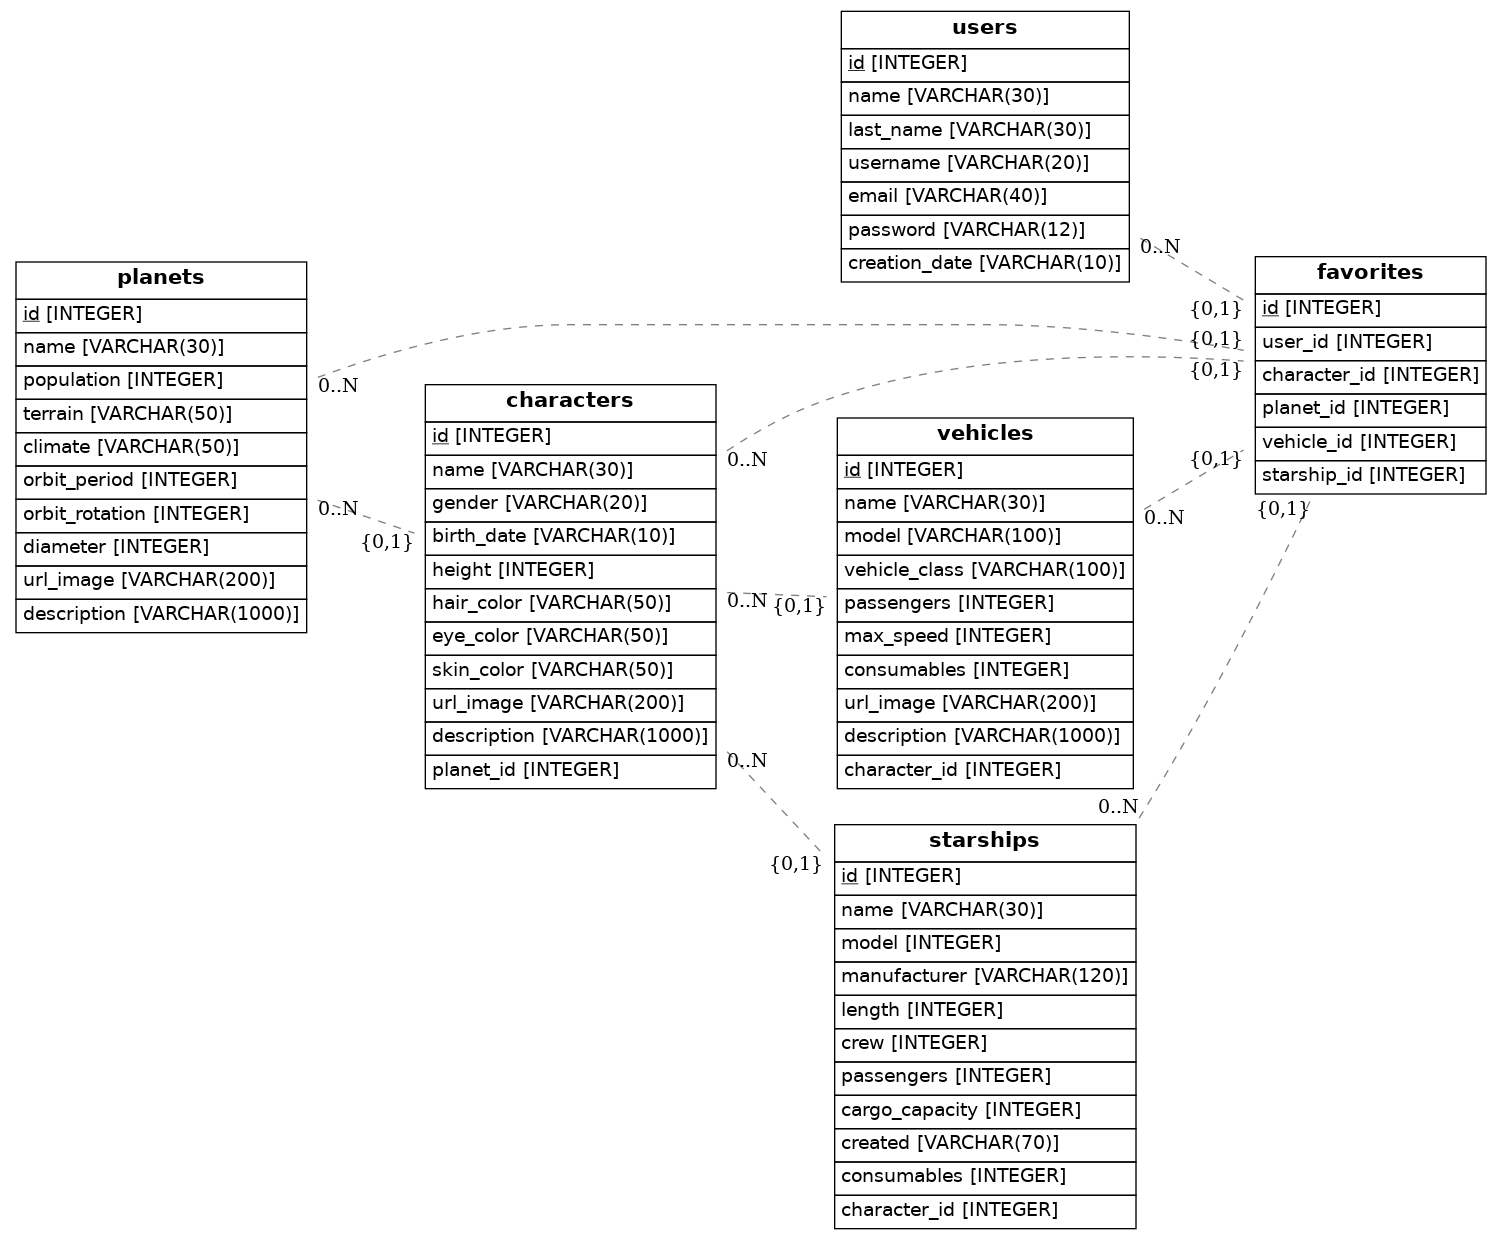
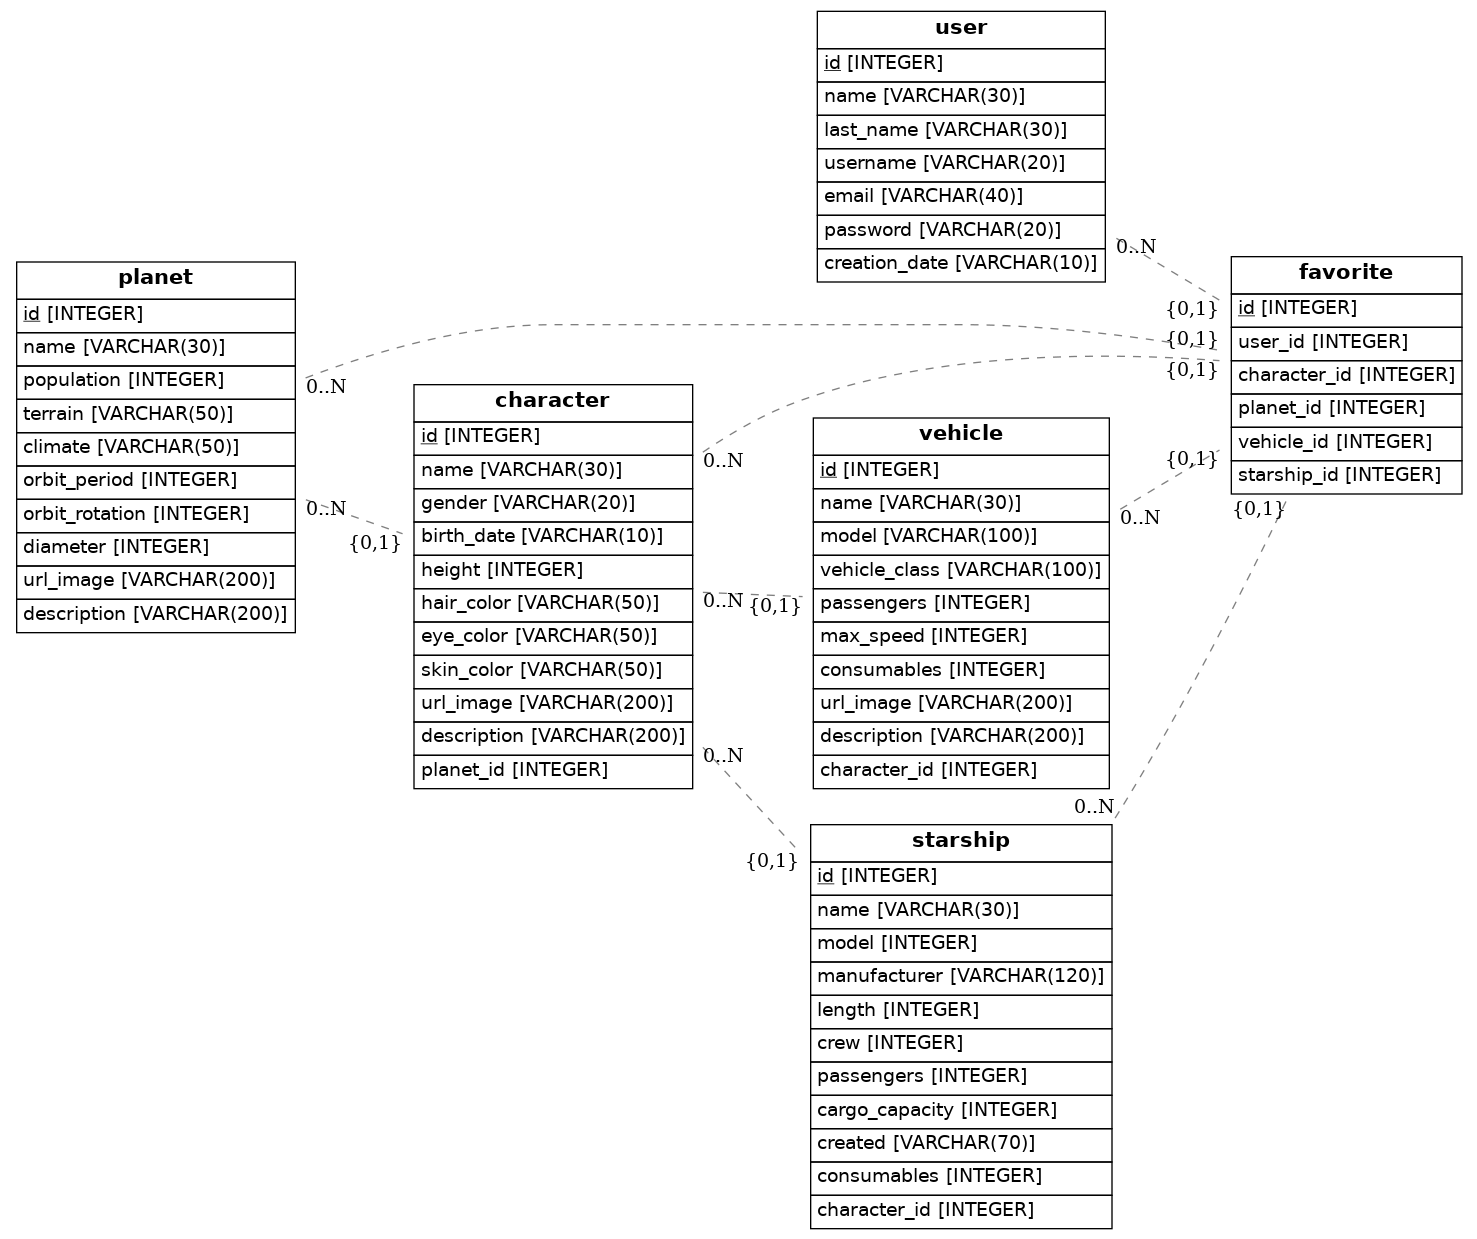
Add methods + fixes

diff --git a/src/models.py b/src/models.py
@@ -15,79 +15,144 @@ Base = declarative_base()
 
 
 class User(Base):
-    __tablename__ = 'users'
+    __tablename__ = 'user'
     id = Column(Integer, primary_key=True)
-    name = Column(String(30), nullable=False)
-    last_name = Column(String(30), nullable=False)
-    username = Column(String(20), unique=True, nullable=False)
-    email = Column(String(40), unique=True, nullable=False)
-    password = Column(String(12), nullable=False)
+    name = Column(String(30))
+    last_name = Column(String(30))
+    username = Column(String(20), unique=True)
+    email = Column(String(40), unique=True)
+    password = Column(String(20))
     creation_date = Column(
         String(10), default=get_current_date, nullable=False)
 
     favorite = relationship('Favorite', back_populates='user')
 
+    def __repr__(self):
+        return '<User %r>' % self.id
+
+    def serialize(self):
+        return {
+            "id": self.id,
+            "name": self.name,
+            "last_name": self.last_name,
+            "username": self.username,
+            "email": self.email,
+            "creation_date": self.creation_date
+        }
+
 
 class Character(Base):
-    __tablename__ = 'characters'
+    __tablename__ = 'character'
     id = Column(Integer, primary_key=True)
-    name = Column(String(30), nullable=False)
-    gender = Column(String(20), nullable=False)
-    birth_date = Column(String(10), nullable=False)
-    height = Column(Integer, nullable=False)
-    hair_color = Column(String(50), nullable=False)
-    eye_color = Column(String(50), nullable=False)
-    skin_color = Column(String(50), nullable=False)
-    url_image = Column(String(200), unique=True, nullable=False, )
-    description = Column(String(1000), unique=True, nullable=False)
+    name = Column(String(30))
+    gender = Column(String(20))
+    birth_date = Column(String(10))
+    height = Column(Integer)
+    hair_color = Column(String(50))
+    eye_color = Column(String(50))
+    skin_color = Column(String(50))
+    url_image = Column(String(200), unique=True, )
+    description = Column(String(200), unique=True)
 
-    planet_id = Column(Integer, ForeignKey('planets.id'))
+    planet_id = Column(Integer, ForeignKey('planet.id'))
     planet = relationship('Planet', back_populates='character')
 
-    favorite = relationship('Favorite', back_populates='user')
-    vehicles = relationship('Vehicle', back_populates='character')
-    starship = relationship('Starship', back_populates='starship')
+    favorite = relationship('Favorite', back_populates='character')
+    vehicle = relationship('Vehicle', back_populates='character')
+    starship = relationship('Starship', back_populates='character')
+
+    def __repr__(self):
+        return '<Character %r>' % self.id
+
+    def serialize(self):
+        return {
+            "id": self.id,
+            "name": self.name,
+            "gender": self.gender,
+            "birth_date": self.birth_date,
+            "height": self.height,
+            "hair_color": self.hair_color,
+            "eye_color": self.eye_color,
+            "skin_color": self.skin_color,
+            "url_image": self.url_image,
+            "description": self.description,
+            "planet_id": self.planet_id
+        }
 
 
 class Planet(Base):
-    __tablename__ = 'planets'
+    __tablename__ = 'planet'
     id = Column(Integer, primary_key=True)
-    name = Column(String(30), nullable=False)
-    population = Column(Integer, nullable=False)
-    terrain = Column(String(50), nullable=False)
-    climate = Column(String(50), nullable=False)
-    orbit_period = Column(Integer, nullable=False)
-    orbit_rotation = Column(Integer, nullable=False)
-    diameter = Column(Integer, nullable=False)
-    url_image = Column(String(200), unique=True, nullable=False)
-    description = Column(String(1000), unique=True, nullable=False)
+    name = Column(String(30))
+    population = Column(Integer)
+    terrain = Column(String(50))
+    climate = Column(String(50))
+    orbit_period = Column(Integer)
+    orbit_rotation = Column(Integer)
+    diameter = Column(Integer)
+    url_image = Column(String(200), unique=True)
+    description = Column(String(200), unique=True)
 
     favorite = relationship('Favorite', back_populates='planet')
     character = relationship('Character', back_populates='planet')
 
+    def __repr__(self):
+        return '<Planet %r>' % self.id
+
+    def serialize(self):
+        return {
+            "id": self.id,
+            "name": self.name,
+            "population": self.population,
+            "terrain": self.terrain,
+            "climate": self.climate,
+            "orbit_period": self.orbit_period,
+            "orbit_rotation": self.orbit_rotation,
+            "diameter": self.diameter,
+            "url_image": self.url_image,
+            "description": self.description,
+        }
+
 
 class Vehicle(Base):
-    __tablename__ = 'vehicles'
+    __tablename__ = 'vehicle'
     id = Column(Integer, primary_key=True)
-    name = Column(String(30), nullable=False)
-    model = Column(String(100), nullable=False)
-    vehicle_class = Column(String(100), unique=True)
+    name = Column(String(30))
+    model = Column(String(100))
+    vehicle_class = Column(String(100))
     passengers = Column(Integer)
     max_speed = Column(Integer)
     consumables = Column(Integer)
     url_image = Column(String(200), unique=True)
-    description = Column(String(1000), unique=True)
+    description = Column(String(200), unique=True)
 
-    character_id = Column(Integer, ForeignKey('characters.id'))
-    character = relationship('Character', back_populates='vechicle')
+    character_id = Column(Integer, ForeignKey('character.id'))
+    character = relationship('Character', back_populates='vehicle')
 
     favorite = relationship('Favorite', back_populates='vehicle')
 
+    def __repr__(self):
+        return '<Vehicle %r>' % self.id
+
+    def serialize(self):
+        return {
+            "id": self.id,
+            "name": self.name,
+            "model": self.model,
+            "vehicle_class": self.vehicle_class,
+            "passengers": self.passengers,
+            "max_speed": self.max_speed,
+            "consumables": self.consumables,
+            "url_image": self.url_image,
+            "description": self.description,
+            "character_id": self.character_id
+        }
+
 
 class Starship(Base):
-    __tablename__ = 'starships'
+    __tablename__ = 'starship'
     id = Column(Integer, primary_key=True)
-    name = Column(String(30), unique=True, nullable=False)
+    name = Column(String(30), unique=True)
     model = Column(Integer)
     manufacturer = Column(String(120))
     length = Column(Integer)
@@ -97,33 +162,61 @@ class Starship(Base):
     created = Column(String(70))
     consumables = Column(Integer)
 
-    character_id = Column(Integer, ForeignKey('characters.id'))
+    character_id = Column(Integer, ForeignKey('character.id'))
     character = relationship('Character', back_populates='starship')
 
     favorite = relationship('Favorite', back_populates='starship')
 
+    def __repr__(self):
+        return '<Starship %r>' % self.id
+
+    def serialize(self):
+        return {
+            "id": self.id,
+            "name": self.name,
+            "model": self.model,
+            "manufacturer": self.manufacturer,
+            "length": self.length,
+            "crew": self.crew,
+            "passengers": self.passengers,
+            "cargo_capacity": self.cargo_capacity,
+            "created": self.created,
+            "consumables": self.consumables,
+            "character_id": self.character_id
+        }
+
 
 class Favorite(Base):
-    __tablename__ = 'favorites'
+    __tablename__ = 'favorite'
     id = Column(Integer, primary_key=True)
 
-    user_id = Column(Integer, ForeignKey('users.id'))
+    user_id = Column(Integer, ForeignKey('user.id'))
     user = relationship('User', back_populates='favorite')
 
-    character_id = Column(Integer, ForeignKey('characters.id'))
+    character_id = Column(Integer, ForeignKey('character.id'))
     character = relationship('Character', back_populates='favorite')
 
-    planet_id = Column(Integer, ForeignKey('planets.id'))
+    planet_id = Column(Integer, ForeignKey('planet.id'))
     planet = relationship('Planet', back_populates='favorite')
 
-    vehicle_id = Column(Integer, ForeignKey('vehicles.id'))
+    vehicle_id = Column(Integer, ForeignKey('vehicle.id'))
     vehicle = relationship('Vehicle', back_populates='favorite')
 
-    starship_id = Column(Integer, ForeignKey('starships.id'))
+    starship_id = Column(Integer, ForeignKey('starship.id'))
     starship = relationship('Starship', back_populates='favorite')
 
-    def to_dict(self):
-        return {}
+    def __repr__(self):
+        return 'Favorite %r>' % self.id
+
+    def serialize(self):
+        return {
+            "id": self.id,
+            "user_id": self.user_id,
+            "character_id": self.character_id,
+            "planet_id": self.planet_id,
+            "vehicle_id": self.vehicle_id,
+            "starship_id": self.starship_id,
+        }
 
 
 # Draw from SQLAlchemy base
